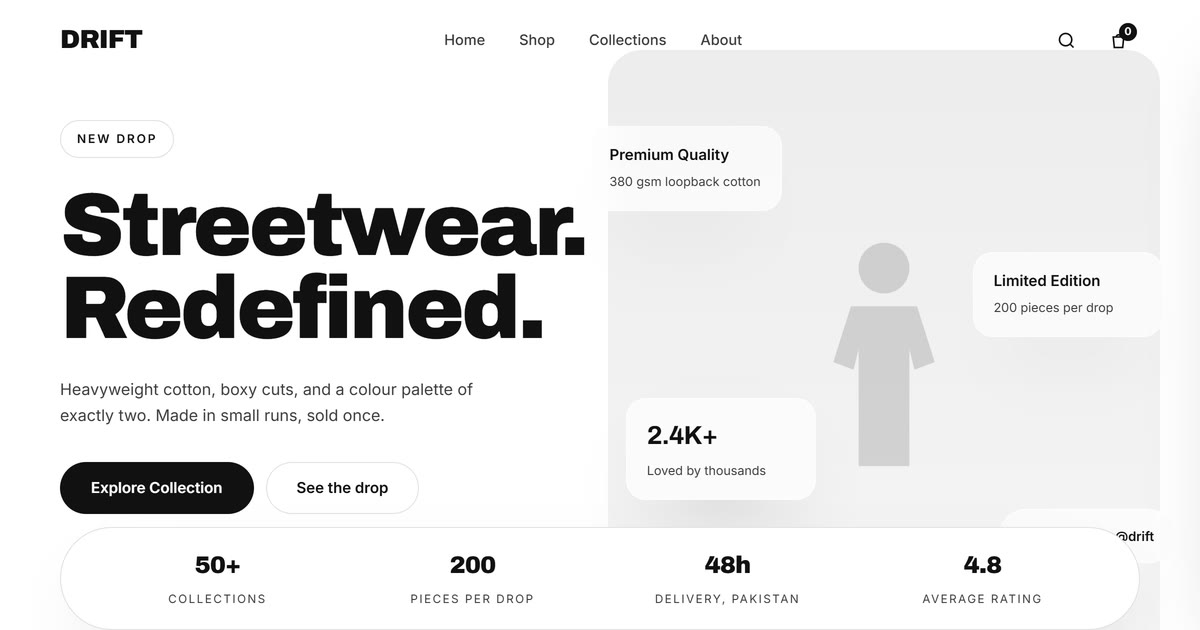
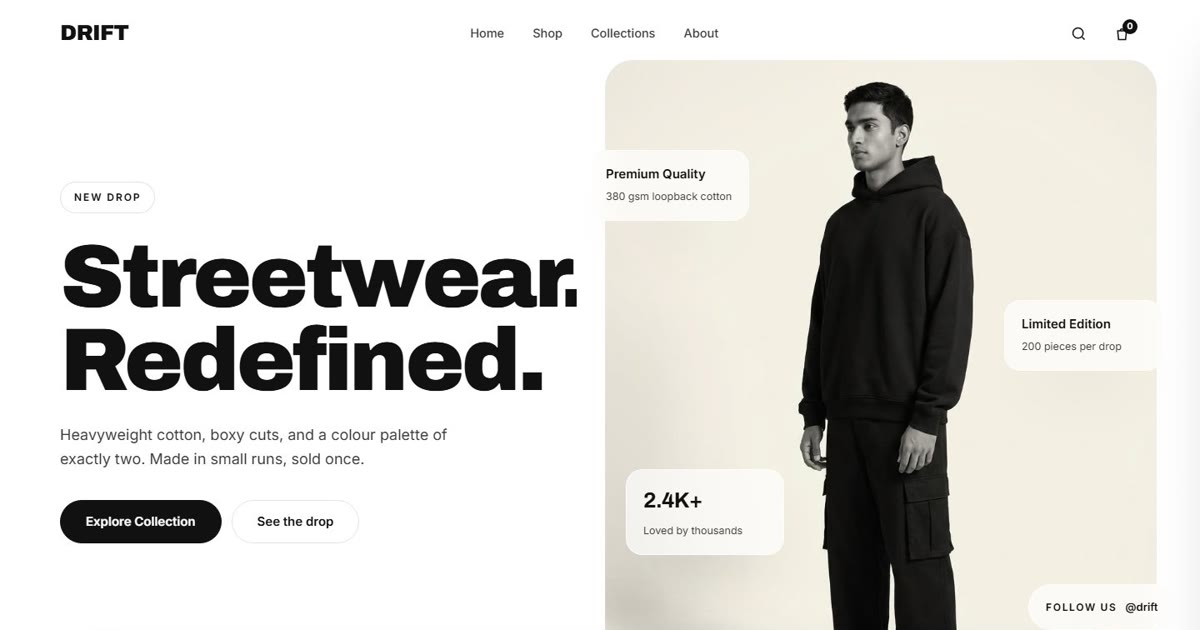
Add AI-generated hero and product photos
Hero model, the four showcase products, three popular picks and two new arrivals
now use photos made in Google Flow. Queue and cart thumbs can show photos too.

diff --git a/assets/css/site.css b/assets/css/site.css
@@ -96,8 +96,8 @@ p{margin:0}
 /* ---------------- placeholders and photos ---------------- */
 /* every photo slot renders a drawn garment until its file is listed in assets/img/images.json,
    so a missing file is a designed state, never a broken image */
-.ph,.hero-photo,.bcard,.mi,.av,.th,.featmain,.shot{position:relative;overflow:hidden;background:var(--off2)}
-.ph::after,.hero-photo::after,.bcard::after,.mi::after,.av::after,.th::after,.shot::after{
+.ph,.hero-photo,.bcard,.mi,.av,.th,.featmain,.shot,.qi,.cim{position:relative;overflow:hidden;background:var(--off2)}
+.ph::after,.hero-photo::after,.bcard::after,.mi::after,.av::after,.th::after,.shot::after,.qi::after,.cim::after{
   content:"";position:absolute;inset:0;background-image:var(--img,none);background-size:cover;background-position:50% 45%;
   transition:transform 1.2s var(--ease),opacity .6s var(--ease)}
 .drawn>svg{position:absolute;left:50%;top:50%;width:46%;height:46%;transform:translate(-50%,-50%);color:rgba(17,17,17,.15);fill:currentColor}

diff --git a/README.md b/README.md
@@ -4,6 +4,6 @@ A demo landing page for an invented streetwear brand, designed and built by Abdu
 
 - Plain HTML, CSS and vanilla JavaScript, with GSAP, ScrollTrigger and Lenis.
 - Every section flips in on scroll; a product showcase, a card rail, a bento grid, a marquee and a working bag.
-- Product slots show drawn garments until photos are listed in `assets/img/images.json`.
+- The hero and the main products use AI-generated photos made in Google Flow; the other slots show drawn garments until photos are listed in `assets/img/images.json`.
 
-The brand, prices, stats and reviews are invented for the demo. The newsletter and checkout send nothing.
+The brand, prices, stats and reviews are invented for the demo, and the photos are AI-generated. The newsletter and checkout send nothing.
